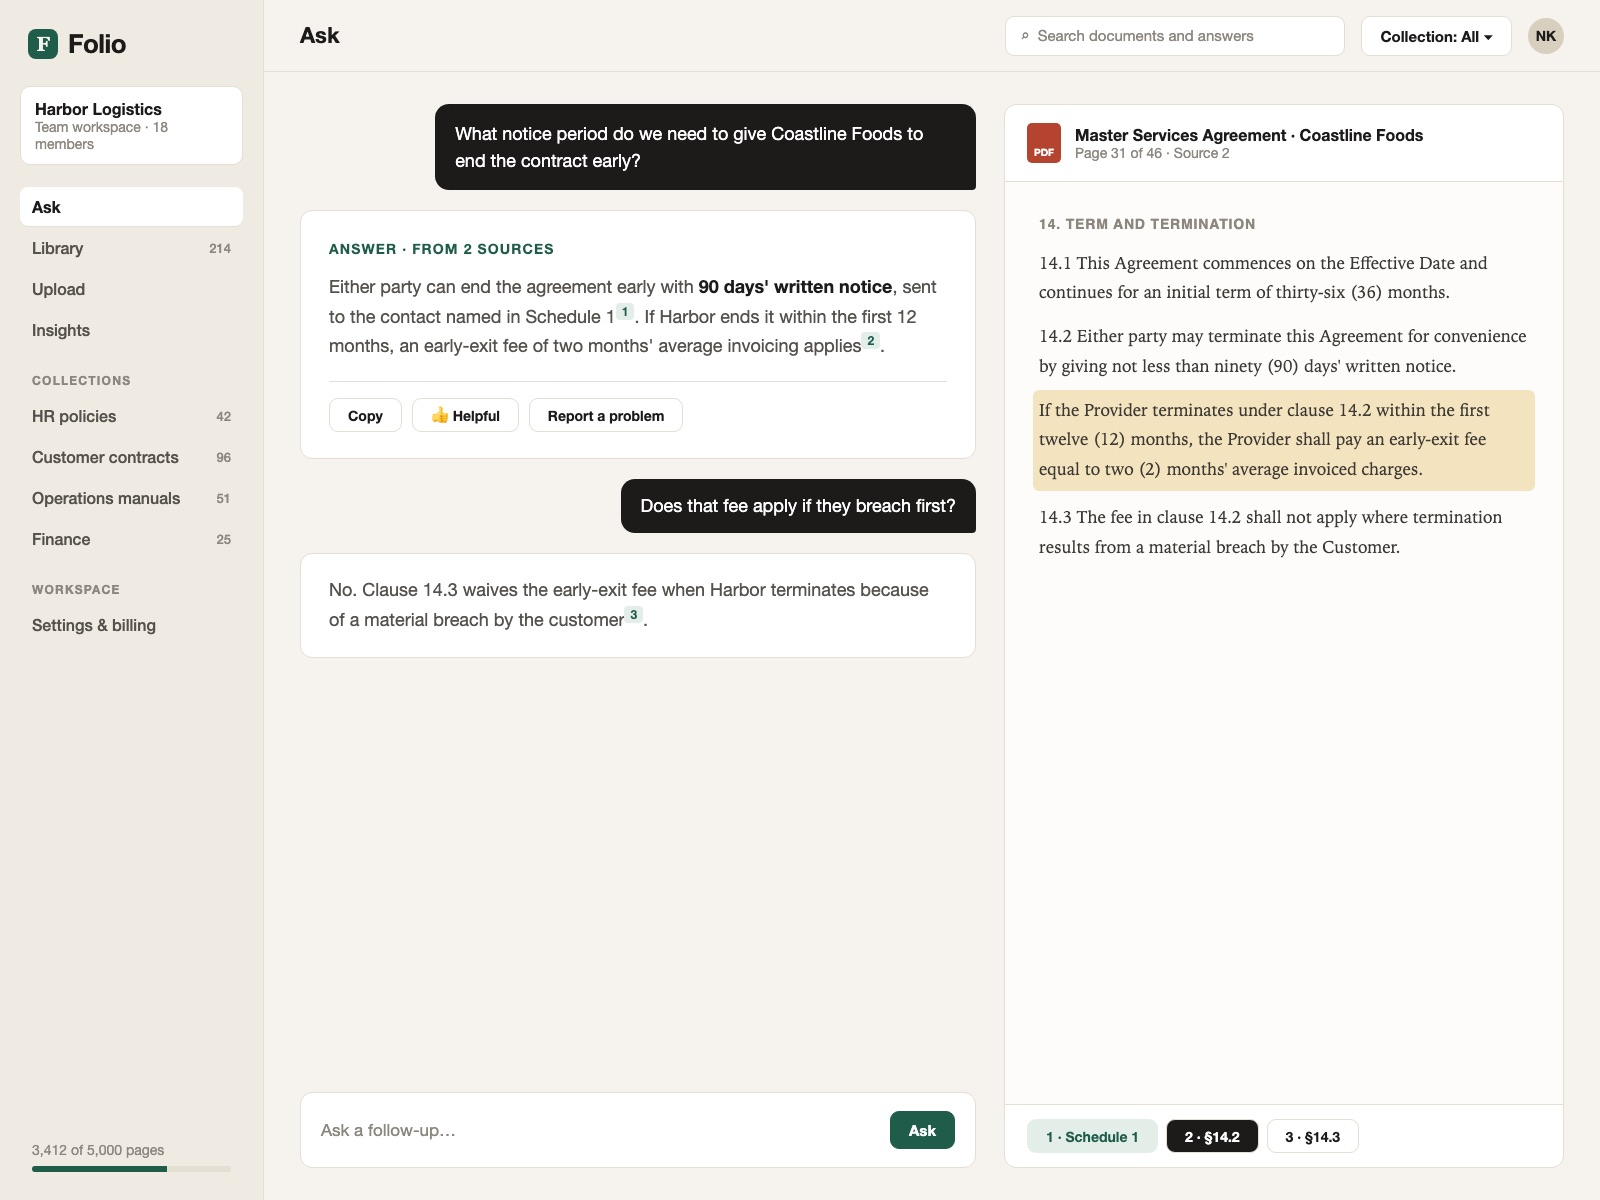
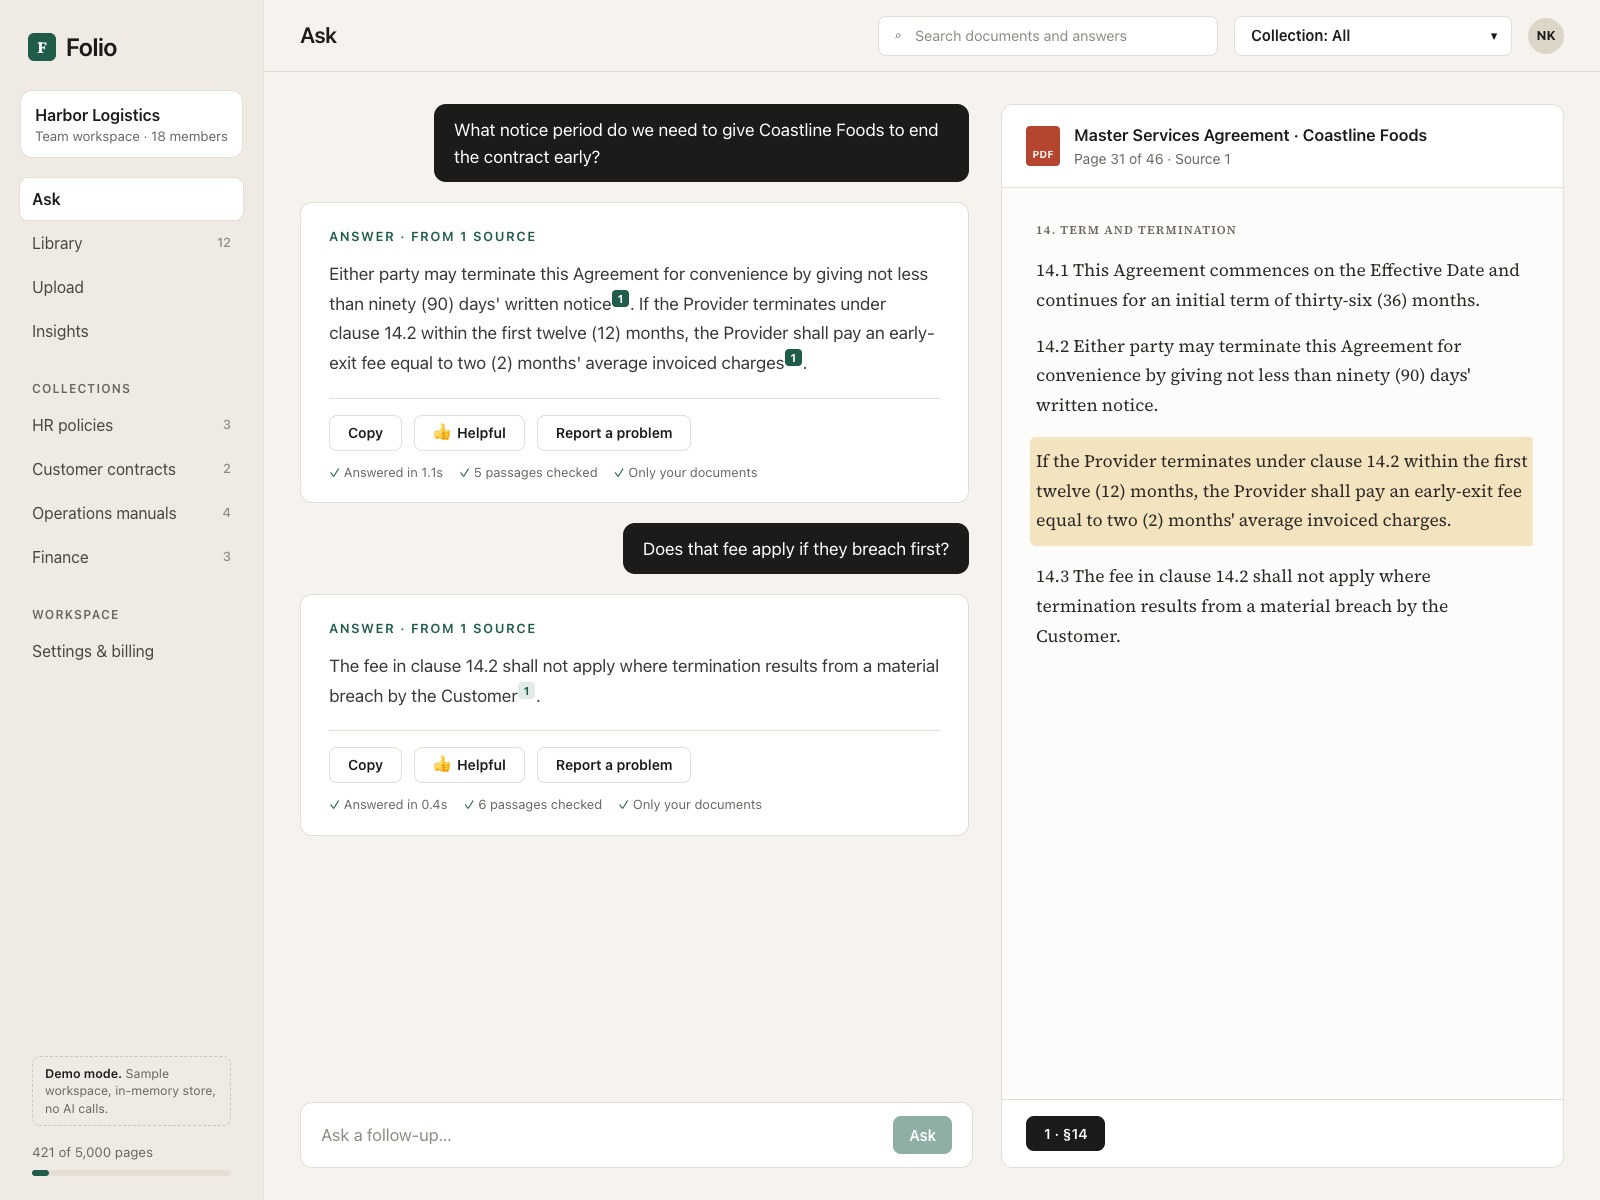
content: refresh Helpdeck and Folio screenshots after their revamp
Retook all 10 shots from the revamped apps (new three.js/GSAP landing
pages and refreshed app screens) at 1600x1200, keeping the same file
names and order: Helpdeck inbox, landing, knowledge, automations,
reports; Folio landing, ask, library, upload, insights.

Folio's upload accepts PDF, Word, Markdown and text, not Excel, so the
project point now says so.

diff --git a/src/data/content.ts b/src/data/content.ts
@@ -106,7 +106,7 @@ export const projects: Project[] = [
     summary:
       "Upload your policies, contracts and manuals, ask questions in plain English, and get answers that cite the exact page they came from.",
     points: [
-      "Reads PDF, Word, Markdown and Excel files, splits them into passages and indexes them for search.",
+      "Reads PDF, Word, Markdown and text files, splits them into passages and indexes them for search.",
       "Answers come only from your documents. If the answer isn't there, Folio says so instead of guessing.",
       "Every claim links to the page and paragraph it came from, so nobody has to take the AI's word for it.",
       "Document library, usage insights and workspace settings for teams.",
